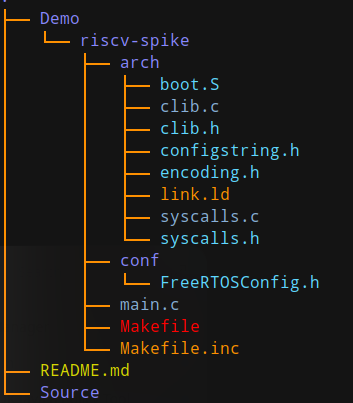
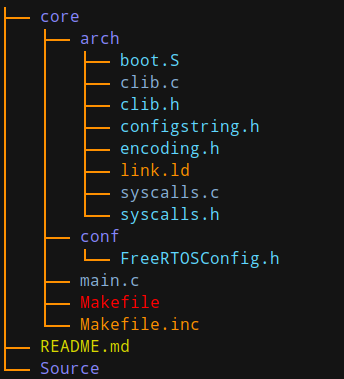
commit

diff --git a/_posts/2022-02-03-freertos.md b/_posts/2022-02-03-freertos.md
@@ -170,193 +170,12 @@ Description: GCC cross compiler for ARM Cortex-R/M processors
 
 ![Alt x](../assets/img/rtos/riscv_base.png)
 
-
-
-
-
-
-
-# CMake
-
-cmake的出現就是為了幫助構建大型複雜項目。 cmake提供了簡潔的接口，方便設置編譯參數（如優化等級，報警設置等等），添加依賴（頭文件和庫），編譯源代碼等等。 需要注意的是 cmake 的任務並不是構建項目，而是生成構建項目的 g++ 命令（更確切的說就是MakeFile）。
-
-## 安裝 CMake
+You may build it by:
 
 ```shell
-$ sudo apt install cmake
-```
-
-以下文件創建項目:
-
-![Alt x](../assets/img/rtos/cmake1.png)
-
-CMakeLists.txt的內容如下：
-
-```shell
-# cmake 最低版本需求
-cmake_minimum_required(VERSION 3.10)
-
-# 工程名稱
-project(Trial_example)
-
-## 設置彙編語言及 C 語言編器
-enable_language(C ASM)
-
-# 設置編譯器文件路徑 tools
-set(tools /home/dickyko/Downloads/gcc-arm-none-eabi-10.3-2021.10-x86_64-linux/gcc-arm-none-eabi-10.3-2021.10/bin)
-
-# 通過命令設置語言編譯器
-set(CMAKE_C_COMPILER ${tools}/arm-none-eabi-gcc)
-set(CMAKE_ASM_COMPILER ${tools}/arm-none-eabi-as)
-
-# 設置編譯靜態庫的產出目錄為項目根目錄下的library文件夾
-set(LIBRARY_OUTPUT_PATH ${CMAKE_SOURCE_DIR}/lib/)
-
-# 設置編譯可執行文件的產出目錄為項目根目錄下
-set(EXECUTABLE_OUTPUT_PATH ${CMAKE_SOURCE_DIR}/)
-
-# 設置包含頭文件路徑 (多次一個參數或多於一個參數以空格分隔)
-include_directories(include/ ST_Library/ ST_Library/inc/ port/GCC/ARM_CM4F/)
-
-# 編譯源碼生成目標，尋找 src 目錄下所有的 c 源代碼文件
-file(GLOB_RECURSE SRC_LIST src/*.c)
-
-file(GLOB_RECURSE ST_Library/src/*.c)
-
-# 將 src 目錄下的 c 文件編譯為靜態庫 libc.a, 該指令的主要作用就是將指定的源文件生成鏈接文件，然後添加到工程中去。參數為 STATIC, SHARED 和 MODULE 可選擇是指生成庫文件的類型
-add_library(c STATIC ${SRC_LIST})
-
-# 設置鏈接庫目錄 (多次一個參數或多於一個參數以空格分隔)
-link_directories(${CMAKE_SOURCE_DIR}/lib/)
-
-# 將 main.cpp 編譯為可執行文件 main
-add_executable(main main.c)
-
-# 增加可執行文件(可多於一個參數以空格分隔)需要鏈接的靜態庫。一定要放在 add_executable 後面，否則 cmake 會對 main 產生困惑。add_executable 相當於聲明了可執行文件 main 的存在。
-target_link_libraries(main libc.a)
-
-# 構建完成信息。參數為 FATAL_ERROR，STATUS，WARNING，AUTHOR_WARNING，VERBOSE等，FATAL_ERROR 會停止編譯系統的構建過程； STATUS 類似於編程語言中的 DEBUG 信息。
-message(STATUS "構建完成")
+$ cd core
+$ make clean
+$ make
+$ objcopy -O ihex riscv-spike.elf output.hex
 
 ```
-
-示例中使用命令的解釋
- - 變量使用 ${ } 方式取值，指令是大小寫無關，參數和變量是大小寫相關。
- - CMAKE_C_COMPILER, CMAKE_CXX_STANDARD, LIBRARY_OUTPUT_PATH, EXECUTABLE_OUTPUT_PATH 為 CMake 系統變量
- - CMAKE_SOURCE_DIR 是定義 CMakeLists.txt 的文件夾 (root)
- - GLOB_RECURSE 模式將遍歷匹配目錄的所有子目錄並匹配文件
-  
-[互聯網 CMake 命令詳解](https://gitlab.kitware.com/cmake/community/-/wikis/doc/cmake/Useful-Variables)
-
-## CMake 進行編譯
-
-CMake 在生成文件的過程中會生成很多中間緩存文件，為了使項目更簡潔，文件路徑更清楚，一般會在項目的 root 目錄下建立一個文件夾，用於存儲 CMake 生成的中間文件。而一般使用的文件家名稱為build 或者 release。構建項目時，依次執行以下命令：
-
-```shell
-# 進入項目的root目錄，本文為：sample
-cd sample
-
-# 創建存儲緩存文件的文件夾，build
-mkdir build
-
-# 使用 CMake 命令生成 makefile 文件
-cmake ..
-
-# 使用 make 命令進行編譯
-cmake --build .
-```
-
-![Alt x](../assets/img/rtos/cmake2.png)
-
-此時，就可以在 build 文件夾下看到 MakeFile 文件，cmake 也就正式完成了它的使命，接著執行 make，就可以看到下面的目錄結構，主文件已經出現了可執行文件 **main** 和生成的靜態庫 **libc.ac。
-
-### make 使用命令
-
- - **make** 編譯生成 **elf** 文件；
-
- - **make bin** 將 **elf** 文件轉化生成 **bin** 文件；
-
- - **make hex** 將 **elf** 文件轉化生成 **hex** 文件；
-
- - **make clean** 即可清除掉所有編譯產生的文件。
-
-## ELF, HEX 及 BIN 的不同
-
-|文件|格式|包含地址|大小|可轉換|
-|:---:|:---:|:---:|:---:|:---:|
-|ELF|x86 Linux|有|最大|BIN, HEX|
-|HEX|單片機|有|2 倍 BIN 大小|BIN|
-|BIN|單片機|沒有|最小|加基地址轉 HEX|
-
- - ELF（Executableand linking format）文件是 x86 Linux 系統下的一種常用目標文件，包含著 ELF header，程序頭部表，節區頭部表等。文件包含的信息量相比於 BIN 和 HEX 文件都要多，可通過 ELF 文件生成 HEX 和 BIN 文件，但 HEX 和 BIN 並不能轉為 ELF。
-
- - HEX 和 BIN 文件都是單片機常見的刷新格式，HEX 也可以直接轉換為 BIN 文件，但是 BIN 要轉化為 HEX 文件必須要給定一個基地址。雖然可以相互轉換，但兩者在文件格式方面還有一些差異：
-   - HEX 文件
-     - 文件大小並不是實際的數據大小
-     - 包括別的附加信息 (地址，長度，校驗等)
-     - 燒寫或下載文件時，一般不需要用戶指定地址
-     - 用 ASCII 來表示數據，8bit 就需要 2 個字節
-     - 至少需要 2 倍 BIN 文件的空間
-   - BIN 文件
-     - 查看文件的大小就是數據的實際大小
-     - 文件只包含數據本身
-     - 燒寫文件時則需要指定燒錄的地址
-
-
-## 編譯彙編語言例子
-
-從一個簡單的程序例子開始 ，它什麼都不做，只是返回一個錯誤代碼。
-
-```shell
-.global main    /* 'main' 是切入點，必須是全局變量 */
-main:           /* 這是 main */
-    mov r0, #2  /* 將 2 放入寄存器 r0 */
-    bx lr       /* 從 main 返回 */
-```
-
-創建一個名為 start.s 的彙編語言文件並寫入上面顯示的內容。並鍵入以下命令
-
-```shell
-$ arm-none-eabi-as -o start.o start.s
-```
-
-將創建一個 start.o 文件。現在鏈接此文件以獲取可執行文件
-
-```shell
-$ arm-none-eabi-gcc --specs=nosys.specs -o start start.o
-```
-
-如一切按預期進行，將獲得一個可執行文件 start 的 ARM 格式文件
-
-[互聯網 ARM 彙編程序](https://thinkingeek.com/2013/01/09/arm-assembler-raspberry-pi-chapter-1/)
-
-## 工具鏈專為 Cortex-A/R/M 裸機開發而構建和優化
-
-下表顯示瞭如何使用正確的命令行調用 GCC/G++ Cortex-A/R 和 Cortex-M 架構變體的選項
-
-| ARM Core | 命令行選項 | 多功能庫工具 |
-|:---:|:---:|:---:|
-|Cortex-M0+ | -mthumb -mcpu=cortex-m0plus| armv6-m|
-|Cortex-M0 | -mthumb -mcpu=cortex-m0 | armv6-m|
-|Cortex-M1 | -mthumb -mcpu=cortex-m1 | armv6-m|
-|Cortex-M0+, Cortex-M0, Cortex-M1 | -mthumb -march=armv6-m  | armv6-m|
-|Cortex-M3 | -mthumb -mcpu=cortex-m3 | armv7-m |
-|Cortex-M3 | -mthumb -march=armv7-m | armv7-m |
-|Cortex-M4 (No FP) | -mthumb -mcpu=cortex-m4 | armv7e-m |
-|Cortex-M4 (No FP) | -mthumb -march=armv7e-m | armv7e-m |
-|Cortex-M4 (Soft FP) | -mthumb -mcpu=cortex-m4 -mfloat-abi=softfp | armv7e-m /softfp |
-|Cortex-M4 (Soft FP) | -mfpu=fpv4-sp-d16                          |armv7e-m /softfp |
-|Cortex-M4 (Soft FP) | -mthumb -march=armv7e-m -mfloat-abi=softfp |armv7e-m /softfp |
-|Cortex-M4 (Soft FP) | -mfpu=fpv4-sp-d16                          |armv7e-m /softfp |
-|Cortex-M4 (Hard FP) | -mthumb -mcpu=cortex-m4 -mfloat-abi=hard   | armv7e-m /fpu |
-|Cortex-M4 (Hard FP) | -mfpu=fpv4-sp-d16                          | armv7e-m /fpu |
-|Cortex-M4 (Hard FP) | -mthumb -march=armv7e-m -mfloat-abi=hard   | armv7e-m /fpu |
-|Cortex-M4 (Hard FP) | -mfpu=fpv4-sp-d16                          |armv7e-m /fpu |
-|Cortex-R4, Cortex-R5, Cortex-R7 (No FP) | [-mthumb] -march=armv7-r | armv7-ar /thumb |
-|Cortex-R4, Cortex-R5, Cortex-R7 (Soft FP) | [-mthumb] -march=armv7-r -mfloat-abi=softfp -mfpu=vfpv3-d16 | armv7-ar /thumb /softfp |
-|Cortex-R4, Cortex-R5, Cortex-R7 (Hard FP) | -mfpu=vfpv3-d16 | armv7-ar /thumb /fpu |
-|Cortex-A* (No FP) | [-mthumb] -march=armv7-a | armv7-ar /thumb |
-|Cortex-A* (Soft FP) | [-mthumb] -march=armv7-a -mfloat-abi=softfp -mfpu=vfpv3-d16 | armv7-ar /thumb /softfp |
-|Cortex-A* (Hard FP) | [-mthumb] -march=armv7-a -mfloat-abi=hard -mfpu=vfpv3-d16 | armv7-ar /thumb /fpu |
-
-

diff --git a/_posts/2022-02-13-cmake.md b/_posts/2022-02-13-cmake.md
@@ -1,0 +1,195 @@
+---
+category: [編程]
+tags: [編程]
+title: CMake
+date: 2022-02-03 18:00:00
+---
+
+<style>
+    table {
+        width: 100%;
+    }
+</style>
+
+# CMake
+
+cmake的出現就是為了幫助構建大型複雜項目。 cmake提供了簡潔的接口，方便設置編譯參數（如優化等級，報警設置等等），添加依賴（頭文件和庫），編譯源代碼等等。 需要注意的是 cmake 的任務並不是構建項目，而是生成構建項目的 g++ 命令（更確切的說就是MakeFile）。
+
+## 安裝 CMake
+
+```shell
+$ sudo apt install cmake
+```
+
+以下文件創建項目:
+
+![Alt x](../assets/img/rtos/cmake1.png)
+
+CMakeLists.txt的內容如下：
+
+```shell
+# cmake 最低版本需求
+cmake_minimum_required(VERSION 3.10)
+
+# 工程名稱
+project(Trial_example)
+
+## 設置彙編語言及 C 語言編器
+enable_language(C ASM)
+
+# 設置編譯器文件路徑 tools
+set(tools /home/dickyko/Downloads/gcc-arm-none-eabi-10.3-2021.10-x86_64-linux/gcc-arm-none-eabi-10.3-2021.10/bin)
+
+# 通過命令設置語言編譯器
+set(CMAKE_C_COMPILER ${tools}/arm-none-eabi-gcc)
+set(CMAKE_ASM_COMPILER ${tools}/arm-none-eabi-as)
+
+# 設置編譯靜態庫的產出目錄為項目根目錄下的library文件夾
+set(LIBRARY_OUTPUT_PATH ${CMAKE_SOURCE_DIR}/lib/)
+
+# 設置編譯可執行文件的產出目錄為項目根目錄下
+set(EXECUTABLE_OUTPUT_PATH ${CMAKE_SOURCE_DIR}/)
+
+# 設置包含頭文件路徑 (多次一個參數或多於一個參數以空格分隔)
+include_directories(include/ ST_Library/ ST_Library/inc/ port/GCC/ARM_CM4F/)
+
+# 編譯源碼生成目標，尋找 src 目錄下所有的 c 源代碼文件
+file(GLOB_RECURSE SRC_LIST src/*.c)
+
+file(GLOB_RECURSE ST_Library/src/*.c)
+
+# 將 src 目錄下的 c 文件編譯為靜態庫 libc.a, 該指令的主要作用就是將指定的源文件生成鏈接文件，然後添加到工程中去。參數為 STATIC, SHARED 和 MODULE 可選擇是指生成庫文件的類型
+add_library(c STATIC ${SRC_LIST})
+
+# 設置鏈接庫目錄 (多次一個參數或多於一個參數以空格分隔)
+link_directories(${CMAKE_SOURCE_DIR}/lib/)
+
+# 將 main.cpp 編譯為可執行文件 main
+add_executable(main main.c)
+
+# 增加可執行文件(可多於一個參數以空格分隔)需要鏈接的靜態庫。一定要放在 add_executable 後面，否則 cmake 會對 main 產生困惑。add_executable 相當於聲明了可執行文件 main 的存在。
+target_link_libraries(main libc.a)
+
+# 構建完成信息。參數為 FATAL_ERROR，STATUS，WARNING，AUTHOR_WARNING，VERBOSE等，FATAL_ERROR 會停止編譯系統的構建過程； STATUS 類似於編程語言中的 DEBUG 信息。
+message(STATUS "構建完成")
+
+```
+
+示例中使用命令的解釋
+ - 變量使用 ${ } 方式取值，指令是大小寫無關，參數和變量是大小寫相關。
+ - CMAKE_C_COMPILER, CMAKE_CXX_STANDARD, LIBRARY_OUTPUT_PATH, EXECUTABLE_OUTPUT_PATH 為 CMake 系統變量
+ - CMAKE_SOURCE_DIR 是定義 CMakeLists.txt 的文件夾 (root)
+ - GLOB_RECURSE 模式將遍歷匹配目錄的所有子目錄並匹配文件
+  
+[互聯網 CMake 命令詳解](https://gitlab.kitware.com/cmake/community/-/wikis/doc/cmake/Useful-Variables)
+
+## CMake 進行編譯
+
+CMake 在生成文件的過程中會生成很多中間緩存文件，為了使項目更簡潔，文件路徑更清楚，一般會在項目的 root 目錄下建立一個文件夾，用於存儲 CMake 生成的中間文件。而一般使用的文件家名稱為build 或者 release。構建項目時，依次執行以下命令：
+
+```shell
+# 進入項目的root目錄，本文為：sample
+cd sample
+
+# 創建存儲緩存文件的文件夾，build
+mkdir build
+
+# 使用 CMake 命令生成 makefile 文件
+cmake ..
+
+# 使用 make 命令進行編譯
+cmake --build .
+```
+
+![Alt x](../assets/img/rtos/cmake2.png)
+
+此時，就可以在 build 文件夾下看到 MakeFile 文件，cmake 也就正式完成了它的使命，接著執行 make，就可以看到下面的目錄結構，主文件已經出現了可執行文件 **main** 和生成的靜態庫 **libc.ac。
+
+### make 使用命令
+
+ - **make** 編譯生成 **elf** 文件；
+
+ - **make bin** 將 **elf** 文件轉化生成 **bin** 文件；
+
+ - **make hex** 將 **elf** 文件轉化生成 **hex** 文件；
+
+ - **make clean** 即可清除掉所有編譯產生的文件。
+
+## ELF, HEX 及 BIN 的不同
+
+|文件|格式|包含地址|大小|可轉換|
+|:---:|:---:|:---:|:---:|:---:|
+|ELF|x86 Linux|有|最大|BIN, HEX|
+|HEX|單片機|有|2 倍 BIN 大小|BIN|
+|BIN|單片機|沒有|最小|加基地址轉 HEX|
+
+ - ELF（Executableand linking format）文件是 x86 Linux 系統下的一種常用目標文件，包含著 ELF header，程序頭部表，節區頭部表等。文件包含的信息量相比於 BIN 和 HEX 文件都要多，可通過 ELF 文件生成 HEX 和 BIN 文件，但 HEX 和 BIN 並不能轉為 ELF。
+
+ - HEX 和 BIN 文件都是單片機常見的刷新格式，HEX 也可以直接轉換為 BIN 文件，但是 BIN 要轉化為 HEX 文件必須要給定一個基地址。雖然可以相互轉換，但兩者在文件格式方面還有一些差異：
+   - HEX 文件
+     - 文件大小並不是實際的數據大小
+     - 包括別的附加信息 (地址，長度，校驗等)
+     - 燒寫或下載文件時，一般不需要用戶指定地址
+     - 用 ASCII 來表示數據，8bit 就需要 2 個字節
+     - 至少需要 2 倍 BIN 文件的空間
+   - BIN 文件
+     - 查看文件的大小就是數據的實際大小
+     - 文件只包含數據本身
+     - 燒寫文件時則需要指定燒錄的地址
+
+
+## 編譯彙編語言例子
+
+從一個簡單的程序例子開始 ，它什麼都不做，只是返回一個錯誤代碼。
+
+```shell
+.global main    /* 'main' 是切入點，必須是全局變量 */
+main:           /* 這是 main */
+    mov r0, #2  /* 將 2 放入寄存器 r0 */
+    bx lr       /* 從 main 返回 */
+```
+
+創建一個名為 start.s 的彙編語言文件並寫入上面顯示的內容。並鍵入以下命令
+
+```shell
+$ arm-none-eabi-as -o start.o start.s
+```
+
+將創建一個 start.o 文件。現在鏈接此文件以獲取可執行文件
+
+```shell
+$ arm-none-eabi-gcc --specs=nosys.specs -o start start.o
+```
+
+如一切按預期進行，將獲得一個可執行文件 start 的 ARM 格式文件
+
+[互聯網 ARM 彙編程序](https://thinkingeek.com/2013/01/09/arm-assembler-raspberry-pi-chapter-1/)
+
+## 工具鏈專為 Cortex-A/R/M 裸機開發而構建和優化
+
+下表顯示瞭如何使用正確的命令行調用 GCC/G++ Cortex-A/R 和 Cortex-M 架構變體的選項
+
+| ARM Core | 命令行選項 | 多功能庫工具 |
+|:---:|:---:|:---:|
+|Cortex-M0+ | -mthumb -mcpu=cortex-m0plus| armv6-m|
+|Cortex-M0 | -mthumb -mcpu=cortex-m0 | armv6-m|
+|Cortex-M1 | -mthumb -mcpu=cortex-m1 | armv6-m|
+|Cortex-M0+, Cortex-M0, Cortex-M1 | -mthumb -march=armv6-m  | armv6-m|
+|Cortex-M3 | -mthumb -mcpu=cortex-m3 | armv7-m |
+|Cortex-M3 | -mthumb -march=armv7-m | armv7-m |
+|Cortex-M4 (No FP) | -mthumb -mcpu=cortex-m4 | armv7e-m |
+|Cortex-M4 (No FP) | -mthumb -march=armv7e-m | armv7e-m |
+|Cortex-M4 (Soft FP) | -mthumb -mcpu=cortex-m4 -mfloat-abi=softfp | armv7e-m /softfp |
+|Cortex-M4 (Soft FP) | -mfpu=fpv4-sp-d16                          |armv7e-m /softfp |
+|Cortex-M4 (Soft FP) | -mthumb -march=armv7e-m -mfloat-abi=softfp |armv7e-m /softfp |
+|Cortex-M4 (Soft FP) | -mfpu=fpv4-sp-d16                          |armv7e-m /softfp |
+|Cortex-M4 (Hard FP) | -mthumb -mcpu=cortex-m4 -mfloat-abi=hard   | armv7e-m /fpu |
+|Cortex-M4 (Hard FP) | -mfpu=fpv4-sp-d16                          | armv7e-m /fpu |
+|Cortex-M4 (Hard FP) | -mthumb -march=armv7e-m -mfloat-abi=hard   | armv7e-m /fpu |
+|Cortex-M4 (Hard FP) | -mfpu=fpv4-sp-d16                          |armv7e-m /fpu |
+|Cortex-R4, Cortex-R5, Cortex-R7 (No FP) | [-mthumb] -march=armv7-r | armv7-ar /thumb |
+|Cortex-R4, Cortex-R5, Cortex-R7 (Soft FP) | [-mthumb] -march=armv7-r -mfloat-abi=softfp -mfpu=vfpv3-d16 | armv7-ar /thumb /softfp |
+|Cortex-R4, Cortex-R5, Cortex-R7 (Hard FP) | -mfpu=vfpv3-d16 | armv7-ar /thumb /fpu |
+|Cortex-A* (No FP) | [-mthumb] -march=armv7-a | armv7-ar /thumb |
+|Cortex-A* (Soft FP) | [-mthumb] -march=armv7-a -mfloat-abi=softfp -mfpu=vfpv3-d16 | armv7-ar /thumb /softfp |
+|Cortex-A* (Hard FP) | [-mthumb] -march=armv7-a -mfloat-abi=hard -mfpu=vfpv3-d16 | armv7-ar /thumb /fpu |
